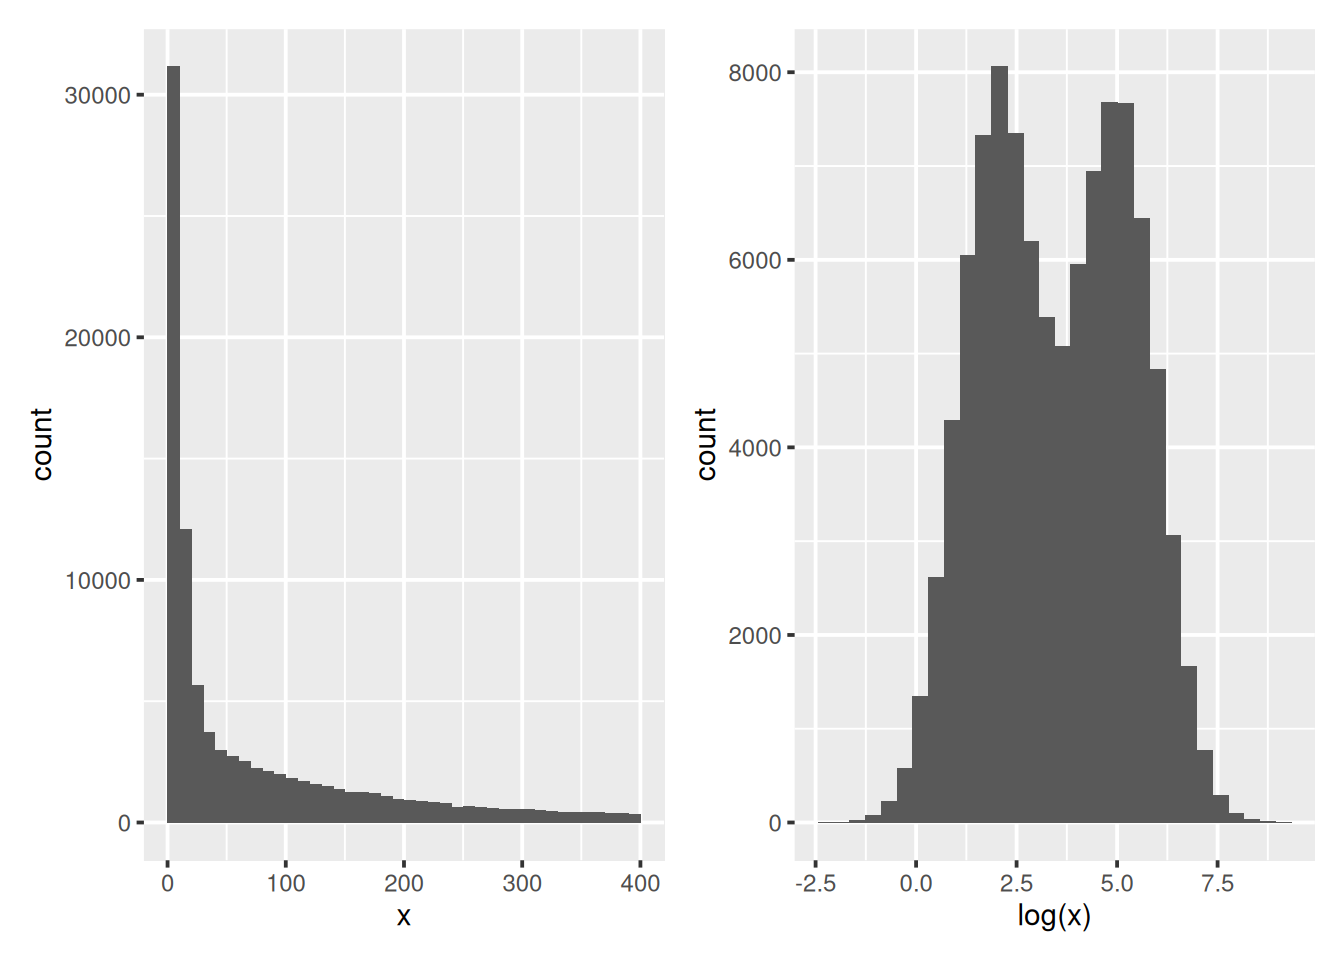
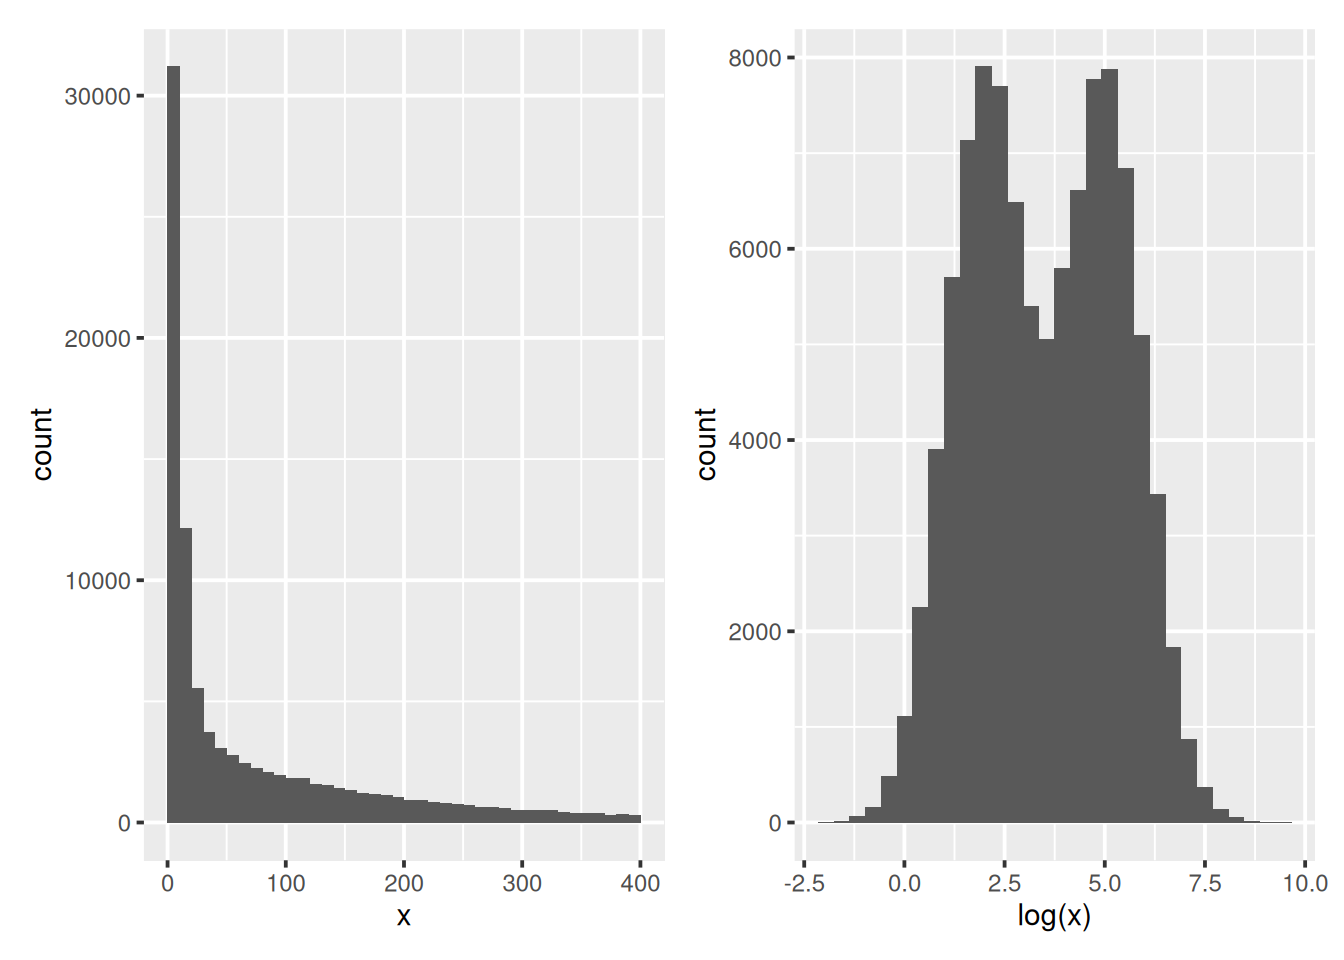
udpate course

diff --git a/docs/sec-vis.html b/docs/sec-vis.html
@@ -13,7 +13,7 @@
 
 <meta name="author" content="Laurent Gatto" />
 
-<meta name="date" content="2025-11-10" />
+<meta name="date" content="2025-11-17" />
 
 <script type="text/x-mathjax-config">
 MathJax.Hub.Config({
@@ -949,7 +949,7 @@ of the data.</p>
 <span id="cb36-9"><a href="sec-vis.html#cb36-9" tabindex="-1"></a>p2 <span class="ot">&lt;-</span>  <span class="fu">ggplot</span>(sim, <span class="fu">aes</span>(<span class="fu">log</span>(x))) <span class="sc">+</span></span>
 <span id="cb36-10"><a href="sec-vis.html#cb36-10" tabindex="-1"></a>    <span class="fu">geom_histogram</span>(<span class="at">bins =</span> <span class="dv">30</span>)</span>
 <span id="cb36-11"><a href="sec-vis.html#cb36-11" tabindex="-1"></a>p1 <span class="sc">+</span> p2</span></code></pre></div>
-<pre><code>## Warning: Removed 8083 rows containing non-finite outside the scale range
+<pre><code>## Warning: Removed 8075 rows containing non-finite outside the scale range
 ## (`stat_bin()`).</code></pre>
 <div class="figure">
 <span style="display:block;" id="fig:sim"></span>
@@ -1198,7 +1198,7 @@ otherwise. Below are some example outputs.</p>
 <a href="sec-obj.html"><button class="btn btn-default">Next</button></a>
 </p>
 <p class="build-date">Page built: 
-2025-11-10
+2025-11-17
  using 
 R version 4.5.0 (2025-04-11)
 </p>

diff --git a/docs/sec-dimred.html b/docs/sec-dimred.html
@@ -13,7 +13,7 @@
 
 <meta name="author" content="Laurent Gatto" />
 
-<meta name="date" content="2025-11-10" />
+<meta name="date" content="2025-11-17" />
 
 <script type="text/x-mathjax-config">
 MathJax.Hub.Config({
@@ -1243,9 +1243,9 @@ Figure 8.20: PCA analysis illustrating the global effect of drug A and B.
 <div class="question-body">
 <p>Researchers of the famous FLVIT (Fosse-La-Ville Institute of
 Technology) wanted to test the effect of a newly identified
-anti-cancer drug C121 on KEK293 cells. They measured proteins
+anti-cancer drug C121 on HEK293 cells. They measured proteins
 expression using quantitative mass spectrometry in these two
-conditions and 4 replicates. Each of these were measured in
+conditions and 3 replicates. Each of these were measured in
 triplicates in a single batch.</p>
 <p>Interpret the PCA plot in the light of the experimental design. Do you
 think the analysis is likely to provide significant results?</p>
@@ -1357,7 +1357,7 @@ the labels?</p>
 <a href="sec-ul.html"><button class="btn btn-default">Next</button></a>
 </p>
 <p class="build-date">Page built: 
-2025-11-10
+2025-11-17
  using 
 R version 4.5.0 (2025-04-11)
 </p>

diff --git a/docs/sec-sl.html b/docs/sec-sl.html
@@ -13,7 +13,7 @@
 
 <meta name="author" content="Laurent Gatto" />
 
-<meta name="date" content="2025-11-10" />
+<meta name="date" content="2025-11-17" />
 
 <script type="text/x-mathjax-config">
 MathJax.Hub.Config({
@@ -1051,7 +1051,7 @@ most reliable assignments one, and setting the unreliable ones to
 <a href="sec-biovis.html"><button class="btn btn-default">Next</button></a>
 </p>
 <p class="build-date">Page built: 
-2025-11-10
+2025-11-17
  using 
 R version 4.5.0 (2025-04-11)
 </p>

diff --git a/docs/sec-norm.html b/docs/sec-norm.html
@@ -13,7 +13,7 @@
 
 <meta name="author" content="Laurent Gatto" />
 
-<meta name="date" content="2025-11-10" />
+<meta name="date" content="2025-11-17" />
 
 <script type="text/x-mathjax-config">
 MathJax.Hub.Config({
@@ -759,7 +759,7 @@ samples distributions at each step. Interpret what you see.</p>
 <a href="sec-mlintro.html"><button class="btn btn-default">Next</button></a>
 </p>
 <p class="build-date">Page built: 
-2025-11-10
+2025-11-17
  using 
 R version 4.5.0 (2025-04-11)
 </p>

diff --git a/docs/sec-biovis.html b/docs/sec-biovis.html
@@ -13,7 +13,7 @@
 
 <meta name="author" content="Laurent Gatto" />
 
-<meta name="date" content="2025-11-10" />
+<meta name="date" content="2025-11-17" />
 
 <script type="text/x-mathjax-config">
 MathJax.Hub.Config({
@@ -493,7 +493,7 @@ number of intersections (default is 40) become useful.</p>
 <a href="sec-ccl.html"><button class="btn btn-default">Next</button></a>
 </p>
 <p class="build-date">Page built: 
-2025-11-10
+2025-11-17
  using 
 R version 4.5.0 (2025-04-11)
 </p>

diff --git a/docs/sec-ccl.html b/docs/sec-ccl.html
@@ -13,7 +13,7 @@
 
 <meta name="author" content="Laurent Gatto" />
 
-<meta name="date" content="2025-11-10" />
+<meta name="date" content="2025-11-17" />
 
 <script type="text/x-mathjax-config">
 MathJax.Hub.Config({
@@ -511,7 +511,7 @@ effect of that outlier of the differential analysis.</li>
 <a href="sec-si.html"><button class="btn btn-default">Next</button></a>
 </p>
 <p class="build-date">Page built: 
-2025-11-10
+2025-11-17
  using 
 R version 4.5.0 (2025-04-11)
 </p>

diff --git a/docs/sec-obj.html b/docs/sec-obj.html
@@ -13,7 +13,7 @@
 
 <meta name="author" content="Laurent Gatto" />
 
-<meta name="date" content="2025-11-10" />
+<meta name="date" content="2025-11-17" />
 
 <script type="text/x-mathjax-config">
 MathJax.Hub.Config({
@@ -1029,7 +1029,7 @@ of class <code>SummarizedExperiment</code>.</p>
 <a href="sec-biostrings.html"><button class="btn btn-default">Next</button></a>
 </p>
 <p class="build-date">Page built: 
-2025-11-10
+2025-11-17
  using 
 R version 4.5.0 (2025-04-11)
 </p>

diff --git a/docs/sec-mlintro.html b/docs/sec-mlintro.html
@@ -13,7 +13,7 @@
 
 <meta name="author" content="Laurent Gatto" />
 
-<meta name="date" content="2025-11-10" />
+<meta name="date" content="2025-11-17" />
 
 <script type="text/x-mathjax-config">
 MathJax.Hub.Config({
@@ -758,7 +758,7 @@ but these are beyond the scope of this course.</p>
 <a href="sec-testing.html"><button class="btn btn-default">Next</button></a>
 </p>
 <p class="build-date">Page built: 
-2025-11-10
+2025-11-17
  using 
 R version 4.5.0 (2025-04-11)
 </p>

diff --git a/docs/sec-refresher.html b/docs/sec-refresher.html
@@ -13,7 +13,7 @@
 
 <meta name="author" content="Laurent Gatto" />
 
-<meta name="date" content="2025-11-10" />
+<meta name="date" content="2025-11-17" />
 
 <script type="text/x-mathjax-config">
 MathJax.Hub.Config({
@@ -430,7 +430,7 @@ value, and apply it on the object’s assay.</p></li>
 <a href="sec-vis.html"><button class="btn btn-default">Next</button></a>
 </p>
 <p class="build-date">Page built: 
-2025-11-10
+2025-11-17
  using 
 R version 4.5.0 (2025-04-11)
 </p>

diff --git a/docs/sec-ul.html b/docs/sec-ul.html
@@ -13,7 +13,7 @@
 
 <meta name="author" content="Laurent Gatto" />
 
-<meta name="date" content="2025-11-10" />
+<meta name="date" content="2025-11-17" />
 
 <script type="text/x-mathjax-config">
 MathJax.Hub.Config({
@@ -999,7 +999,7 @@ average marker profiles, such as shown below.</p></li>
 <a href="sec-sl.html"><button class="btn btn-default">Next</button></a>
 </p>
 <p class="build-date">Page built: 
-2025-11-10
+2025-11-17
  using 
 R version 4.5.0 (2025-04-11)
 </p>

diff --git a/docs/index.html b/docs/index.html
@@ -13,7 +13,7 @@
 
 <meta name="author" content="Laurent Gatto" />
 
-<meta name="date" content="2025-11-10" />
+<meta name="date" content="2025-11-17" />
 
 <script type="text/x-mathjax-config">
 MathJax.Hub.Config({
@@ -377,7 +377,7 @@ course. It can be installed with</p>
 <a href="sec-refresher.html"><button class="btn btn-default">Next</button></a>
 </p>
 <p class="build-date">Page built: 
-2025-11-10
+2025-11-17
  using 
 R version 4.5.0 (2025-04-11)
 </p>

diff --git a/docs/sec-si.html b/docs/sec-si.html
@@ -13,7 +13,7 @@
 
 <meta name="author" content="Laurent Gatto" />
 
-<meta name="date" content="2025-11-10" />
+<meta name="date" content="2025-11-17" />
 
 <script type="text/x-mathjax-config">
 MathJax.Hub.Config({
@@ -321,7 +321,7 @@ the following code:</p>
 <a href="sec-ccl.html"><button class="btn btn-default">Previous</button></a>
 </p>
 <p class="build-date">Page built: 
-2025-11-10
+2025-11-17
  using 
 R version 4.5.0 (2025-04-11)
 </p>
